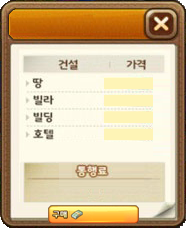
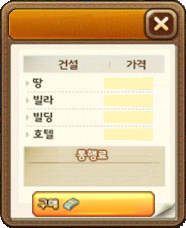
건물건설 리소스 수정
배치 및 사이즈 수정

Changed region(s): [[0.1075, 0.614, 0.8871, 0.9825]]

diff --git a/building_state.py b/building_state.py
@@ -23,6 +23,7 @@ def enter():
     if money_font == None:
         money_font = load_font('.\\font\\InterparkGothicBold.ttf', 10)
     width = height = 0
+    '''
     clicked_tile = main_state.CLICKED_TILE
     lens = [len(clicked_tile.name),
            len(str(clicked_tile.BuildingCost[0])),
@@ -30,6 +31,7 @@ def enter():
            len(str(clicked_tile.BuildingCost[2])),
            len(str(clicked_tile.BuildingCost[3])),
            len(str(clicked_tile.PassingCost[clicked_tile.level]))]
+        '''
     cur_state = EnterState
 
 
@@ -92,14 +94,14 @@ class IdleState:
     @staticmethod
     def draw():
         image.draw(main_state.WINDOW_WIDTH/2, main_state.WINDOW_HEIGHT/2)
-        title_font.draw(main_state.WINDOW_WIDTH/2 - 10*lens[0], main_state.WINDOW_HEIGHT/2 + 88, clicked_tile.name,(255, 255, 255))
-        money_font.draw(main_state.WINDOW_WIDTH / 2 + 58 - 6*lens[1], main_state.WINDOW_HEIGHT / 2 + 30, str(clicked_tile.BuildingCost[0]) + '만')
-        money_font.draw(main_state.WINDOW_WIDTH / 2 + 58 - 6*lens[2], main_state.WINDOW_HEIGHT / 2 + 12, str(clicked_tile.BuildingCost[1]) + '만')
-        money_font.draw(main_state.WINDOW_WIDTH / 2 + 58 - 6*lens[3], main_state.WINDOW_HEIGHT / 2 - 5, str(clicked_tile.BuildingCost[2]) + '만')
-        money_font.draw(main_state.WINDOW_WIDTH / 2 + 58 - 6*lens[4], main_state.WINDOW_HEIGHT / 2 - 22, str(clicked_tile.BuildingCost[3]) + '만')
+        #title_font.draw(main_state.WINDOW_WIDTH/2 - 10*lens[0], main_state.WINDOW_HEIGHT/2 + 88, clicked_tile.name,(255, 255, 255))
+        #money_font.draw(main_state.WINDOW_WIDTH / 2 + 58 - 6*lens[1], main_state.WINDOW_HEIGHT / 2 + 30, str(clicked_tile.BuildingCost[0]) + '만')
+        #money_font.draw(main_state.WINDOW_WIDTH / 2 + 58 - 6*lens[2], main_state.WINDOW_HEIGHT / 2 + 12, str(clicked_tile.BuildingCost[1]) + '만')
+        #money_font.draw(main_state.WINDOW_WIDTH / 2 + 58 - 6*lens[3], main_state.WINDOW_HEIGHT / 2 - 5, str(clicked_tile.BuildingCost[2]) + '만')
+        #money_font.draw(main_state.WINDOW_WIDTH / 2 + 58 - 6*lens[4], main_state.WINDOW_HEIGHT / 2 - 22, str(clicked_tile.BuildingCost[3]) + '만')
 
-        title_font.draw(main_state.WINDOW_WIDTH / 2 - 22, main_state.WINDOW_HEIGHT / 2 - 78, str(clicked_tile.PassingCost[clicked_tile.level]), (255, 0, 0))
-        title_font.draw(main_state.WINDOW_WIDTH / 2 + 30, main_state.WINDOW_HEIGHT / 2 - 78, '만', (255, 0, 0))
+        #title_font.draw(main_state.WINDOW_WIDTH / 2 - 22, main_state.WINDOW_HEIGHT / 2 - 78, str(clicked_tile.PassingCost[clicked_tile.level]), (255, 0, 0))
+        #title_font.draw(main_state.WINDOW_WIDTH / 2 + 30, main_state.WINDOW_HEIGHT / 2 - 78, '만', (255, 0, 0))
         r = 17
         x = main_state.WINDOW_WIDTH/2 + 68
         y = main_state.WINDOW_HEIGHT/2 + 90
